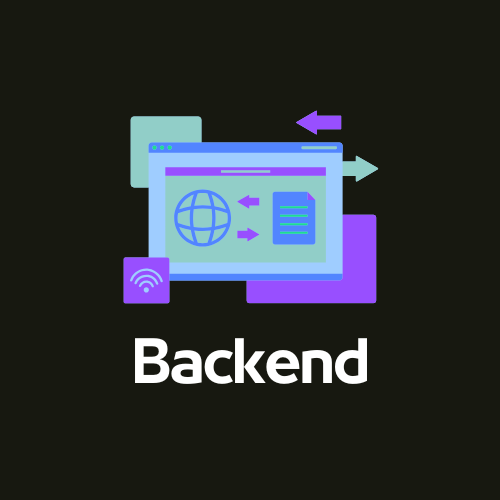
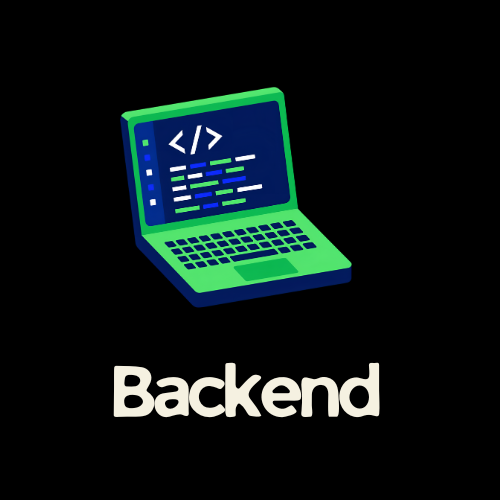
I added new images for the team members and I changed the code so that it shows them. I also renamed the html files from "homepgae2.html" and "items2.html" to "homepage.html" and "items.html".

Changed region(s): [[0.24, 0.15, 0.78, 0.63], [0.21, 0.66, 0.78, 0.84]]

diff --git a/ergasia/homepage.html b/ergasia/homepage.html
@@ -1,47 +1,43 @@
 <!doctype html>
-<html lang="en">
+<html lang="el">
 <head>
     <meta charset="UTF-8" />
     <title>GoodReads-BadEnds</title>
     <link rel="icon" type="image/x-icon" href="../ergasia/img/logo10.png" />
-    <link rel="stylesheet" href="../ergasia/css/style.css" />
+    <link rel="stylesheet" href="../ergasia/css/style2.css" />
+
 </head>
 <body>
-    <!-- Κύματα  -->
-    <section>
-        <div class="air air1"></div>
-        <div class="air air2"></div>
-        <div class="air air3"></div>
-        <div class="air air4"></div>
-    </section>
-
-    <!-- Navigation με κουμπιά για αρχική σελίδα και άλλη σελίδα  -->
-    <nav>
-        <div class="navigation-text">
-            <img src="../ergasia/img/logo10.png" alt="logo" />
-            <h1>GoodReads - BadEnds</h1>
-        </div>
-        <div class="navigation-buttons">
-            <button class="active" onClick=window.location.href='../ergasia/homepage.html'>Homepage</button>
-            <button onClick=window.location.href='../ergasia/items.html'>Βιβλία</button>
-        </div>
-    </nav>
-    <!-- Logo και όνομα  -->
-    <div class="logo-name">
-        <img src="../ergasia/img/logo10.png" alt="logo">
-        <h1>GoodReads - BadEnds</h1>
-    </div>
 
     <main>
 
-        <div class="background-image">
-            <img src="./img/books_backgrounds.webp">
+        <button id="translation-button">
+            <img id="flag-image" src="./img/icons8-greece-50.png" alt="greek flag">
+            <span id="translation-button-text">Greek</span>
+        </button>
+        
+        <div id="background-image">
+            <img src="./img/books_backgrounds.webp" alt="A library">
+        </div>
+        <div id="website-name">
+            GoodReads<br>
+            <i>BadEnds</i>
+        </div>
+        <div id="buttons">
+            <button id="button-about-us" onclick="document.getElementById('items-before-grid').scrollIntoView({ behavior: 'smooth', block: 'center' })">
+                ABOUT THE WEBSITE
+            </button>
+            <button id="button-search" onclick=window.location.href="../ergasia/items.html">
+                SEARCH A BOOK
+            </button>
         </div>
 
-        <div class="items-before-grid">
+
+
+        <div id="items-before-grid">
             <div class="textbeforeslideshow">
-                <h1>Τι είναι το GoodReads-BadEnds?</h1>
-                <p>
+                <h1 id="header-what-is-it">Τι είναι το GoodReads-BadEnds?</h1>
+                <p id="p-what-is-it">
                     Το GoodReads-BadEnds είναι ο κατάλληλος ιστότοπος για όσους
                     απογοητεύτηκαν από το τέλος ενός βιβλίου.
                     Εδώ μπορείς να βρεις βιβλία
@@ -79,12 +75,11 @@
             </div>
 
             <div class="textafterslideshow">
-                <p>
-                    Με το πάτημα του κουμπιού "Βιβλία" στο navigation bar θα μεταβείς στη σελίδα με τον κατάλογο όλων των βιβλίων,
-                    όπου μπορείς να αναζητήσεις κάποιο συγκεκριμένο βιβλίο και να αντιδράσεις σε αυτό ή απλά να δεις τις αντιδράσεις άλλων
-                    βιβλιόφιλων!
+                <p id="p-under-slideshow">
+                    Πατώντας το κουμπί "ΠΡΟΒΟΛΗ ΒΙΒΛΙΩΝ" θα μεταβείς στη σελίδα με τον κατάλογο όλων των βιβλίων, όπου μπορείς να αναζητήσεις κάποιο συγκεκριμένο βιβλίο και να αντιδράσεις σε αυτό ή απλά να δεις τις αντιδράσεις άλλων βιβλιόφιλων!
+                    Επίσης, θα μπορέσεις να μάθεις πληροφορίες για τα βιβλία και τους συγγραφείς τους με ένα μόνο κλικ!
                 </p>
-                <h1>Tα top 5 βιβλία:</h1>
+                <h1 id="top-5-header">Tα top 5 βιβλία:</h1>
             </div>
         </div>
 
@@ -93,30 +88,30 @@
         </div>
     </main>
     <div class="footer">
-        <div class="footer-title">Μέλη ομάδας</div>
+        <div class="footer-title" id="footer-header">Η ομάδα μας</div>
         <div class="members">
             <div class="team-member">
                 <a href="https://github.com/Argyro-Mpanioti"></a>
-                <img src="./img/Frontend.png" alt="Frontend">
-                <div class="member-name">
+                <img src="./img/FullStack.png" alt="FullStack">
+                <div class="member-name" id="member1">
                     Αργυρώ Μπανιώτη
                 </div>
             </div>
             <div class="team-member">
                 <img src="./img/Database.png" alt="Database">
-                <div class="member-name">
+                <div class="member-name" id="member2">
                     Ελισάβετ Κυριαζοπούλου
                 </div>
             </div>
             <div class="team-member">
                 <img src="./img/Database.png" alt="Database">
-                <div class="member-name">
+                <div class="member-name" id="member3">
                 Δήμητρα Λιλή
                 </div>
             </div>
             <div class="team-member">
                 <img src="./img/Backend.png" alt="Backend">
-                <div class="member-name">
+                <div class="member-name" id="member4">
                 Αλεξάνδρα Κολπακίδη
             </div>
         </div>

diff --git a/ergasia/items.html b/ergasia/items.html
@@ -1,11 +1,10 @@
 <!DOCTYPE html>
-<html lang="en">
+<html lang="el">
 <head>
     <meta charset="UTF-8">
     <title>GoodReads - BadEnds</title>
     <link rel="icon" type="image/x-icon" href="../ergasia/img/logo10.png">
-    <link rel="stylesheet" href="../ergasia/css/style.css">
-
+    <link rel="stylesheet" href="../ergasia/css/style2.css">
 </head>
 <body>
 
@@ -16,16 +15,17 @@
     <div class='air air3'></div>
     <div class='air air4'></div>
 </section>
-
 <!-- Navigation με κουμπιά για αρχική σελίδα και άλλη σελίδα  -->
 <nav>
-    <div class="navigation-text">
-        <img src="../ergasia/img/logo10.png" alt="logo">
-        <h1>GoodReads - BadEnds</h1>
+    <div class="navigation-not-buttons">
+        <div class="navigation-text">
+            <img src="../ergasia/img/logo10.png" alt="logo">
+            <h1>GoodReads - BadEnds</h1>
+        </div>
     </div>
     <div class="navigation-buttons">
-        <button onClick=window.location.href='../ergasia/homepage.html'>Homepage</button>
-        <button class="active" onClick=window.location.href='../ergasia/items.html'>Βιβλία</button>
+        <button id="button-homepage" onClick=window.location.href='../ergasia/homepage.html'>Homepage</button>
+        <button id="button-books" class="active" onClick=window.location.href='../ergasia/items.html'>Βιβλία</button>
     </div>
 </nav>
 
@@ -34,6 +34,12 @@
     <img src="../ergasia/img/logo10.png" alt="logo">
     <h1>GoodReads - BadEnds</h1>
 </div>
+
+<button id="translation-button">
+    <img id="flag-image" src="./img/icons8-greece-50.png" alt="greek flag">
+    <span id="translation-button-text">Greek</span>
+</button>
+
 
 <main>
     <div class="search">
@@ -48,30 +54,30 @@
     </div>
 </main>
 <div class="footer">
-    <div class="footer-title">Μέλη ομάδας</div>
+    <div id="footer-header" class="footer-title">Μέλη ομάδας</div>
     <div class="members">
         <div class="team-member">
             <a href="https://github.com/Argyro-Mpanioti"></a>
-            <img src="./img/Frontend.png" alt="Frontend">
-            <div class="member-name">
+            <img src="./img/FullStack.png" alt="Full Stack">
+            <div class="member-name" id="member1">
                 Αργυρώ Μπανιώτη
             </div>
         </div>
         <div class="team-member">
             <img src="./img/Database.png" alt="Database">
-            <div class="member-name">
+            <div class="member-name" id="member2">
                 Ελισάβετ Κυριαζοπούλου
             </div>
         </div>
         <div class="team-member">
             <img src="./img/Database.png" alt="Database">
-            <div class="member-name">
+            <div class="member-name" id="member3">
                 Δήμητρα Λιλή
             </div>
         </div>
         <div class="team-member">
             <img src="./img/Backend.png" alt="Backend">
-            <div class="member-name">
+            <div class="member-name" id="member4">
                 Αλεξάνδρα Κολπακίδη
             </div>
         </div>
